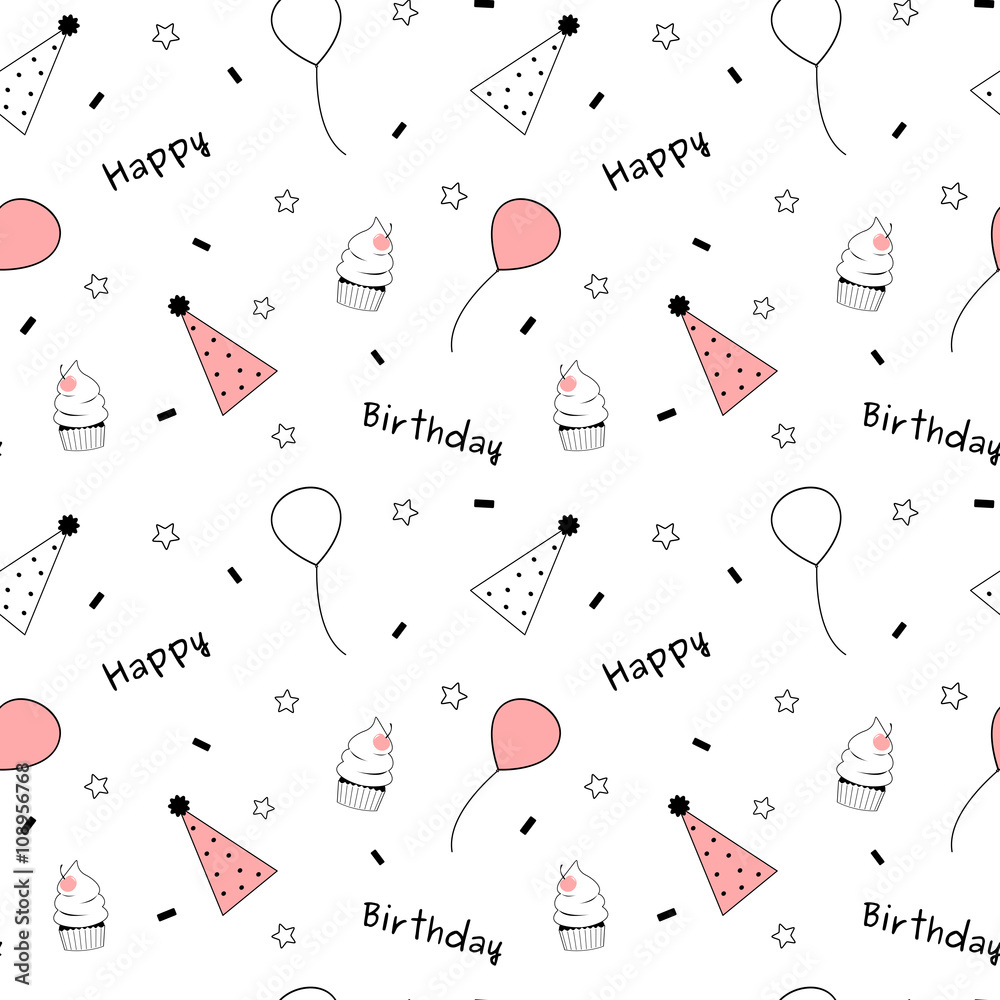
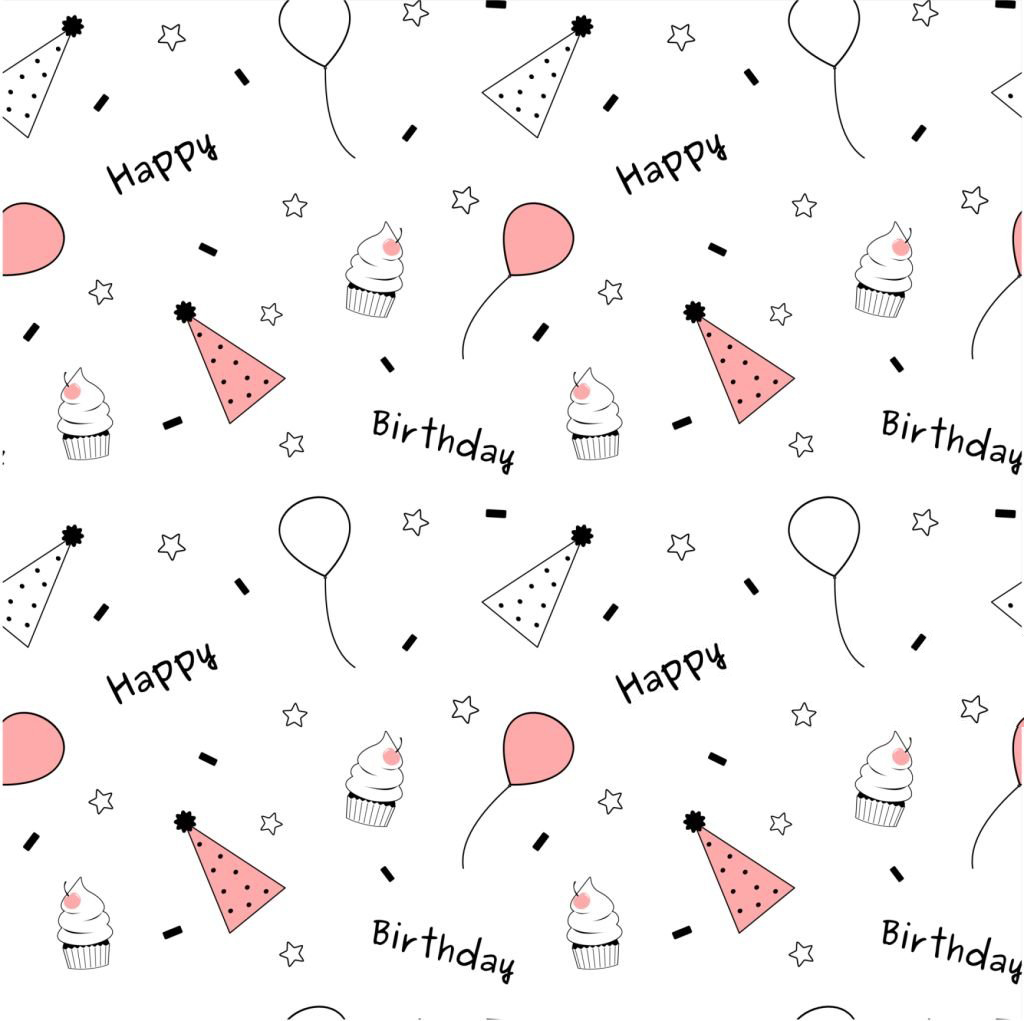
added readme.md file, replaced the background image

diff --git a/README.md b/README.md
@@ -1,0 +1,50 @@
+# Project Title: Interactive Greeting Card
+
+## Description
+This project offers an interactive web-based greeting card that enables users to drag and rotate different elements, such as messages and images, on the screen. Designed to provide a fun and personalized way to convey greetings for various occasions, it merges the charm of traditional greeting sentiments with the interactive capabilities of web technologies.
+
+## Versatility
+Originally conceptualized as a birthday greeting tool, this project has evolved to cater to various occasions. Whether it's for birthdays, anniversaries, proposals, or just to share a heartfelt message, the interactive greeting card offers a versatile platform for expressing sentiments in a unique and memorable way.
+
+
+### Features
+- **Draggable Elements**: Users can click (or touch on mobile devices) and drag to move paper elements across the screen.
+- **Responsive Design**: The layout and interactions are fully responsive, ensuring a seamless experience on both desktop and mobile devices.
+- **Custom Font and Images**: Incorporates a custom font and themed images to enhance the visual appeal.
+
+
+## Inspiration
+Inspired by an Instagram reel showcasing an interactive web project with draggable and rotatable elements, this project takes that initial concept further. Although the original creator's details are unknown, their innovative idea laid the groundwork for this enhanced version. Key improvements include Touch Screen Support, optimizing the experience for modern devices and expanding its use for various occasions.
+
+
+## Improvements
+- **Touch Screen Support**: Added comprehensive support for touch screen devices, allowing for intuitive drag and rotate gestures.
+- **Enhanced Responsiveness**: Improved the project's responsiveness to ensure compatibility and an optimized experience across a variety of screen sizes and devices.
+- **UI/UX Enhancements**: Through the use of a custom font, updated images, and refined interactions, the user interface and experience have been significantly enhanced.
+- **Code Optimization**: Refactored the original script for better performance and maintainability.
+
+
+## Getting Started
+To explore the interactive greeting card, simply clone this repository and open `index.html` in your web browser.
+
+```bash
+gh repo clone AbhiShaw67890/Interactive-Greeting-Card
+cd Interactive-Greeting-Card
+open index.html
+```
+
+
+## Customization
+This project is designed with customization in mind, allowing you to tailor the website for various occasions. By modifying the HTML and CSS files, you can personalize the site to better suit your needs. Here are some suggestions for customization:
+
+- **Wallpaper**: Change the `background-image` in the CSS file to alter the site's wallpaper, giving it a fresh look for the occasion.
+- **Font**: Adjust the `font-family` and other font properties in the CSS to match the mood or theme you're aiming for.
+- **Number of Papers**: Edit the HTML file to add or remove paper elements based on the amount of content you wish to include.
+- **Paper Content**: Customize the text and images within each paper element in the HTML to convey your specific messages or greetings.
+- **Styling**: Alter the colors, shadows, and borders in the CSS for each paper element to highlight them according to your theme.
+
+These customizations allow for a wide range of expressions, making the project adaptable for anything from intimate personal messages to broader celebratory announcements.
+
+
+## Acknowledgments
+I would like to express my gratitude to the creator(s) of the original project that inspired this enhanced version. Their innovative approach to web interactions provided a great starting point for further exploration and development.
